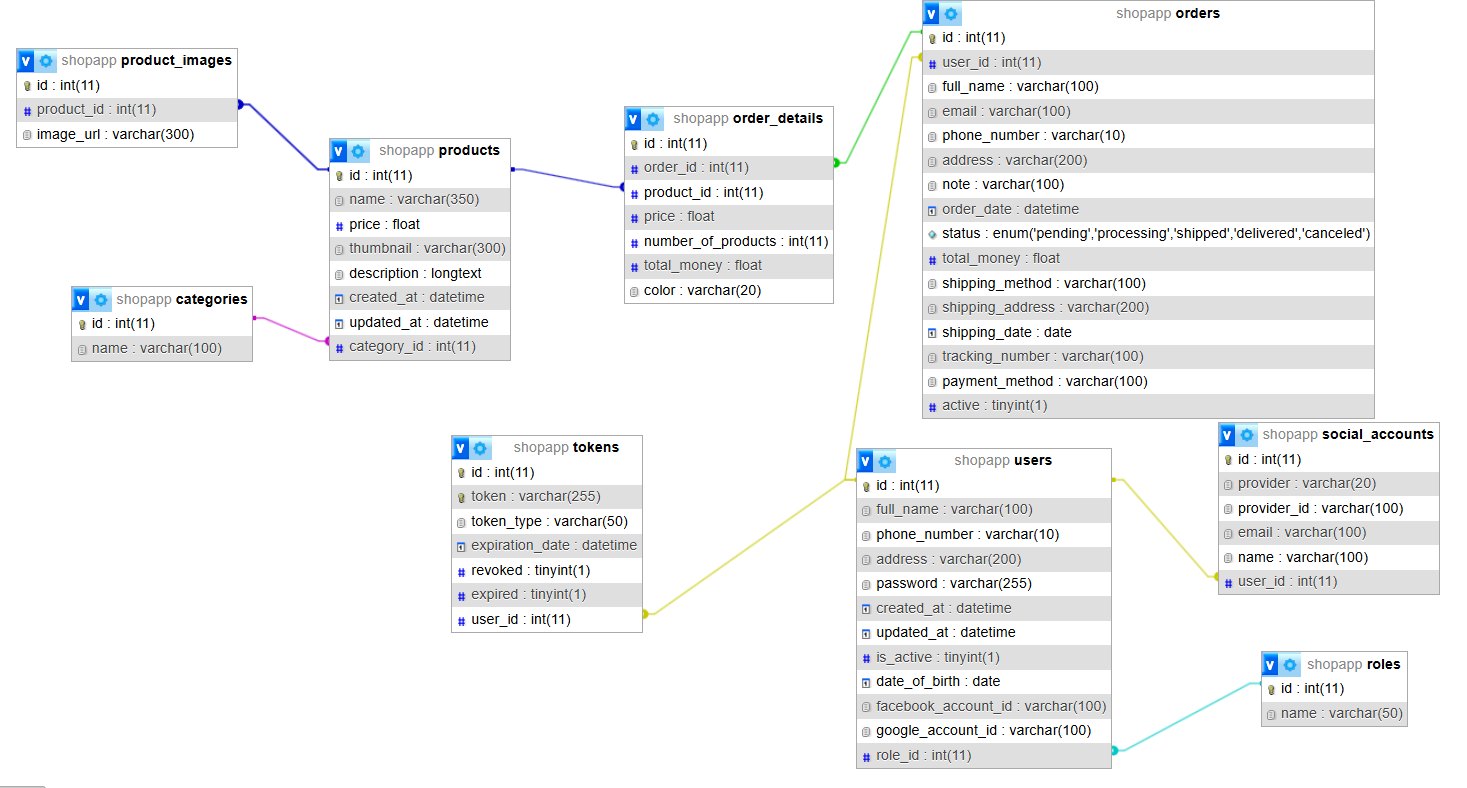
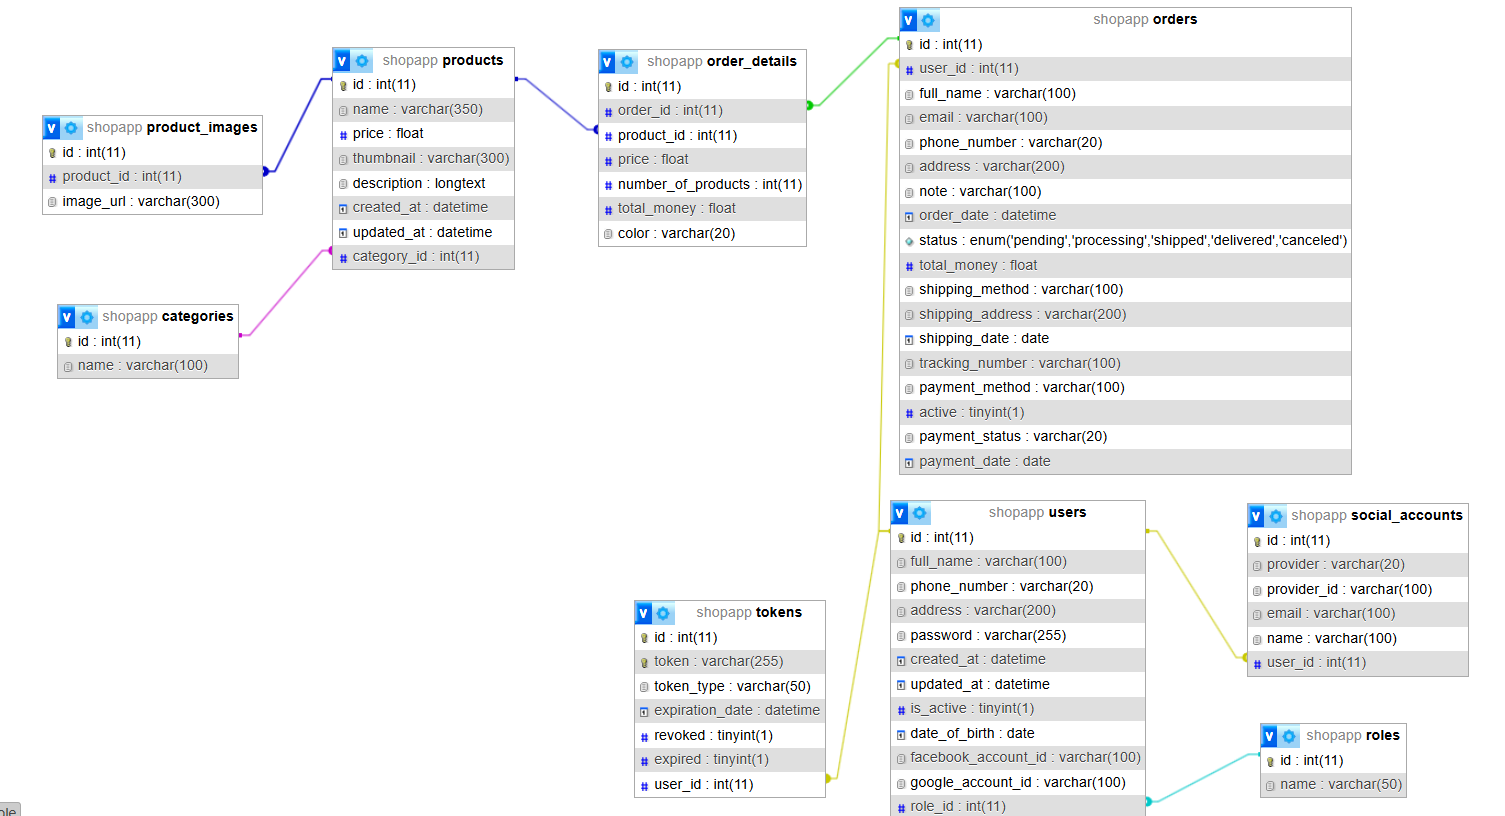
Add Order Details and Order model, add Order Status

diff --git a/shopapp/src/main/java/com/example/shopapp/models/Order.java b/shopapp/src/main/java/com/example/shopapp/models/Order.java
@@ -1,7 +1,17 @@
 package com.example.shopapp.models;
 
+import com.fasterxml.jackson.annotation.JsonProperty;
+import jakarta.persistence.Column;
 import jakarta.persistence.Entity;
+import jakarta.persistence.GeneratedValue;
+import jakarta.persistence.GenerationType;
+import jakarta.persistence.Id;
+import jakarta.persistence.JoinColumn;
+import jakarta.persistence.ManyToOne;
 import jakarta.persistence.Table;
+import java.sql.Date;
+import java.time.LocalDate;
+import java.time.LocalDateTime;
 import lombok.AllArgsConstructor;
 import lombok.Data;
 import lombok.NoArgsConstructor;
@@ -12,5 +22,60 @@ import lombok.NoArgsConstructor;
 @AllArgsConstructor
 @NoArgsConstructor
 public class Order {
+    @Id
+    @GeneratedValue(strategy = GenerationType.IDENTITY)
+    @Column(name = "id")
+    private Long id;
 
+    @ManyToOne
+    @JoinColumn(name = "user_id", referencedColumnName = "id", nullable = false)
+    private User user;
+
+    @Column(name = "full_name", nullable = false, length = 100)
+    private String fullName;
+
+    @Column(name = "email", nullable = false, length = 100)
+    private String email;
+
+    @Column(name = "phone_number", nullable = false, length = 20)
+    private String phoneNumber;
+
+    @Column(name = "address", nullable = false, length = 200)
+    private String address;
+
+    @Column(name = "note", length = 100)
+    private String note;
+
+    @Column(name = "order_date")
+    private LocalDateTime orderDate;
+
+    @Column(name = "status", nullable = false)
+    private String status;
+
+    @Column(name = "total_money")
+    private Float totalMoney;
+
+    @Column(name = "shipping_method")
+    private String shippingMethod;
+
+    @Column(name = "shipping_address")
+    private String shippingAddress;
+
+    @Column(name = "shipping_date")
+    private Date shippingDate;
+
+    @Column(name = "tracking_number")
+    private String trackingNumber;
+
+    @Column(name = "payment_method")
+    private String paymentMethod;
+
+    @Column(name = "payment_date")
+    private Date paymentDate; // only update when user pay the order
+
+    @Column(name = "payment_status")
+    private String paymentStatus;
+
+    @Column(name = "active")
+    private Boolean active; // Admin can delete order
 }

diff --git a/shopapp/src/main/java/com/example/shopapp/models/OrderDetail.java b/shopapp/src/main/java/com/example/shopapp/models/OrderDetail.java
@@ -1,0 +1,45 @@
+package com.example.shopapp.models;
+
+import jakarta.persistence.Column;
+import jakarta.persistence.Entity;
+import jakarta.persistence.GeneratedValue;
+import jakarta.persistence.GenerationType;
+import jakarta.persistence.Id;
+import jakarta.persistence.JoinColumn;
+import jakarta.persistence.ManyToOne;
+import jakarta.persistence.Table;
+import lombok.AllArgsConstructor;
+import lombok.Data;
+import lombok.NoArgsConstructor;
+
+@Entity
+@Table(name = "order_details")
+@Data
+@NoArgsConstructor
+@AllArgsConstructor
+public class OrderDetail {
+    @Id
+    @GeneratedValue(strategy = GenerationType.IDENTITY)
+    @Column(name = "id")
+    private Long id;
+
+    @ManyToOne
+    @JoinColumn(name = "order_id", referencedColumnName = "id", nullable = false)
+    private Order order;
+
+    @ManyToOne
+    @JoinColumn(name = "product_id", referencedColumnName = "id", nullable = false)
+    private Product product;
+
+    @Column(name = "price", nullable = false)
+    private Float price;
+
+    @Column(name = "number_of_products", nullable = false)
+    private Integer numberOfProducts;
+
+    @Column(name = "total_money", nullable = false)
+    private Float totalMoney;
+
+    @Column(name = "color")
+    private String color;
+}

diff --git a/shopapp/src/main/java/com/example/shopapp/dtos/OrderDTO.java b/shopapp/src/main/java/com/example/shopapp/dtos/OrderDTO.java
@@ -26,7 +26,7 @@ public class OrderDTO {
 
     @JsonProperty("phone_number")
     @NotBlank(message = "Phone number is required")
-    @Size(min = 5, max = 10, message = "Phone number must be between 5 and 10 characters")
+    @Size(min = 5, max = 20, message = "Phone number must be between 5 and 20 characters")
     private String phoneNumber;
 
     private String address;

diff --git a/shopapp/src/main/java/com/example/shopapp/models/OrderStatus.java b/shopapp/src/main/java/com/example/shopapp/models/OrderStatus.java
@@ -1,0 +1,9 @@
+package com.example.shopapp.models;
+
+public class OrderStatus {
+    public static final String PENDING = "pending";
+    public static final String PROCESSING = "processing";
+    public static final String SHIPPED = "shipped";
+    public static final String DELIVERED = "delivered";
+    public static final String CANCELLED = "cancelled";
+}

diff --git a/shopapp/src/main/java/com/example/shopapp/models/User.java b/shopapp/src/main/java/com/example/shopapp/models/User.java
@@ -27,7 +27,7 @@ public class User extends BaseEntity {
     @Column(name = "full_name", length = 100)
     private String fullName;
 
-    @Column(name = "phone_number", nullable = false, length = 10)
+    @Column(name = "phone_number", nullable = false, length = 20)
     private String phoneNumber;
 
     @Column(name = "address", length = 200)
